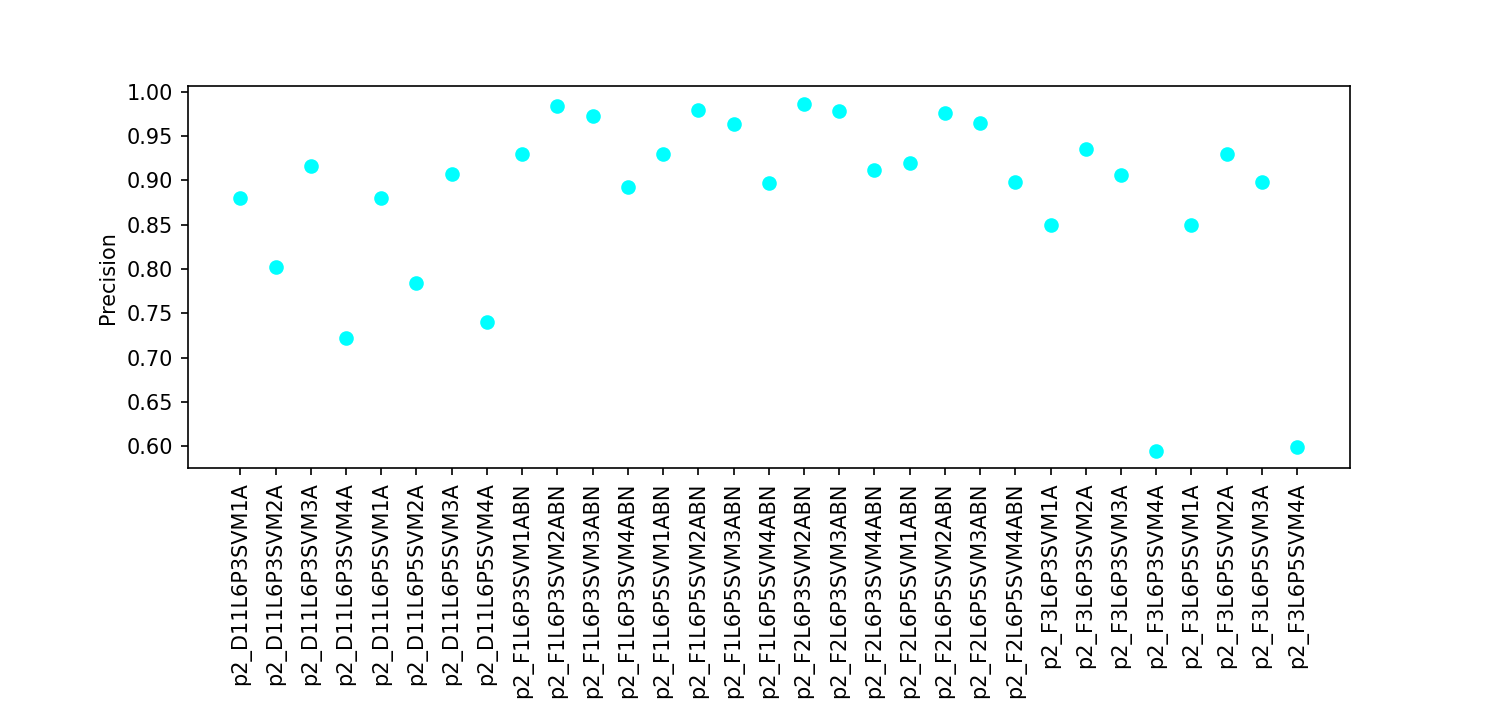
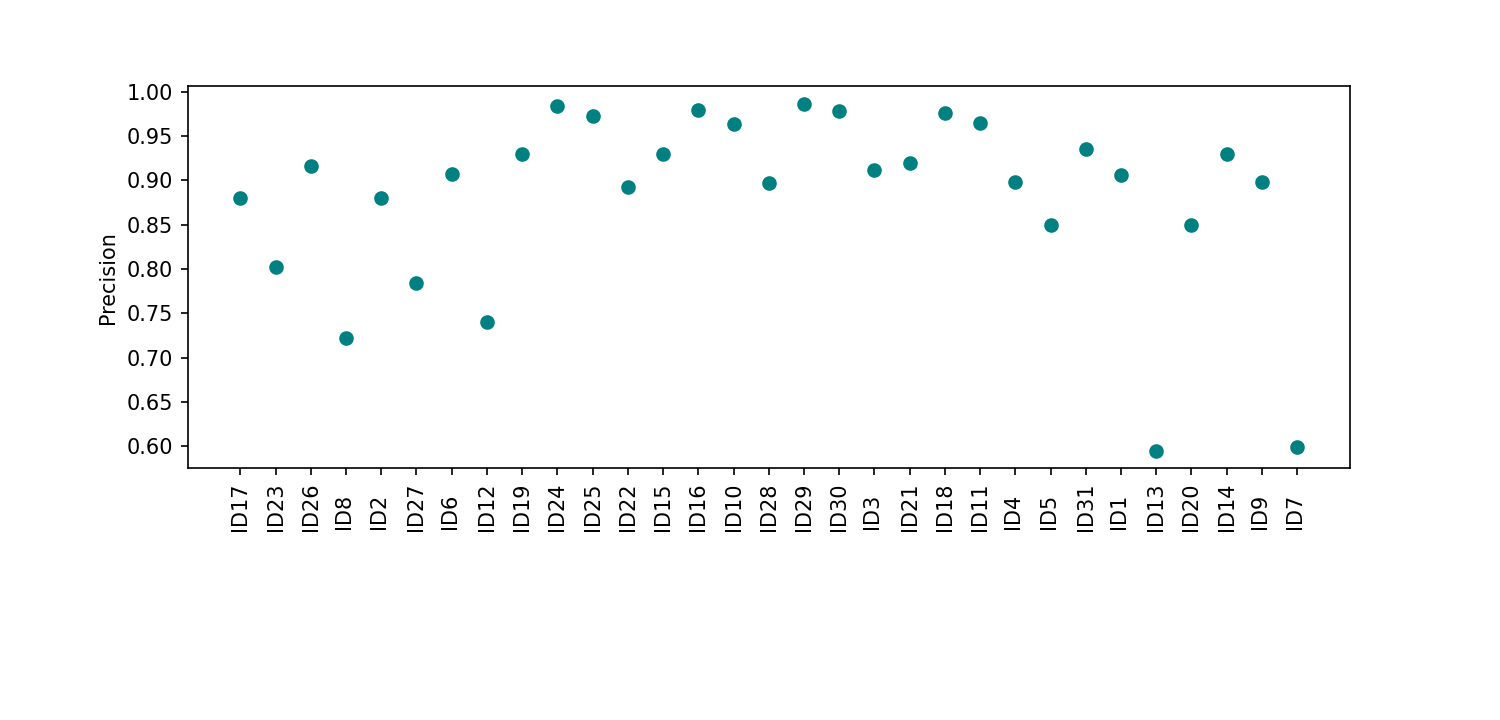
update plot_precision.py

diff --git a/phase-2_a/Supervised_Models/SVM/Info/plot_precision.py b/phase-2_a/Supervised_Models/SVM/Info/plot_precision.py
@@ -19,6 +19,10 @@ for file in os.listdir():
         arr.append(file)
 DF = pd.DataFrame
 
+# read id models csv
+id_dataframe = pd.read_csv(f'{root["SVM"]}{"p2_id_models.csv"}', index_col="Unnamed: 0")
+print(id_dataframe.head())
+
 
 def storage_info(arr):
     """storage Precision"""
@@ -39,20 +43,39 @@ def storage_info(arr):
     return DF
 
 
+def rename_x(model_name):
+    model_name = model_name.replace(".csv", "")
+    _ = id_dataframe.loc[id_dataframe["model name"] == model_name, "id_model"]
+    return _.iloc[0]
+
+
+def unify_string_len(id_model):
+    if len(id_model) == 3:
+        label = id_model + "  "
+    else:
+        label = id_model
+    return label
+
+
 def plot_sim(DF):
     plt.figure(figsize=[10, 4.8], dpi=200)
     DF.to_csv(
         "/home/babs/Documents/DIFACQUIM/PPI_classifier/phase-2_a/Supervised_Models/SVM/Info/info_metrics/Precision.csv"
     )
     DF = DF.sort_values(by=["Exp"])
-    X = list()
-    for i in DF.Exp.to_list():
-        i = i.replace(".csv", "")
-        X.append(i.replace("SVM_", ""))
+    # X = list()
+    # for i in DF.Exp.to_list():
+    #     X.append(i)
+
     x = [i for i in range(len(DF["Precision"]))]
+    # xlabels
+    X = DF.Exp.to_list()
+    X = list(map(rename_x, X))
+    X_label = list(map(unify_string_len, X))
+    print("soy x", "\n", X_label)
     y = list(DF["Precision"])
-    plt.plot(x, y, "ro", color="cyan")
-    plt.xticks(x, X, rotation="vertical")
+    plt.plot(x, y, "ro", color="teal")
+    plt.xticks(x, X_label, rotation="vertical")
     # plt.tick_params(axis="x", labelsize=10)
     plt.ylabel("Precision")
     plt.subplots_adjust(bottom=0.35)
